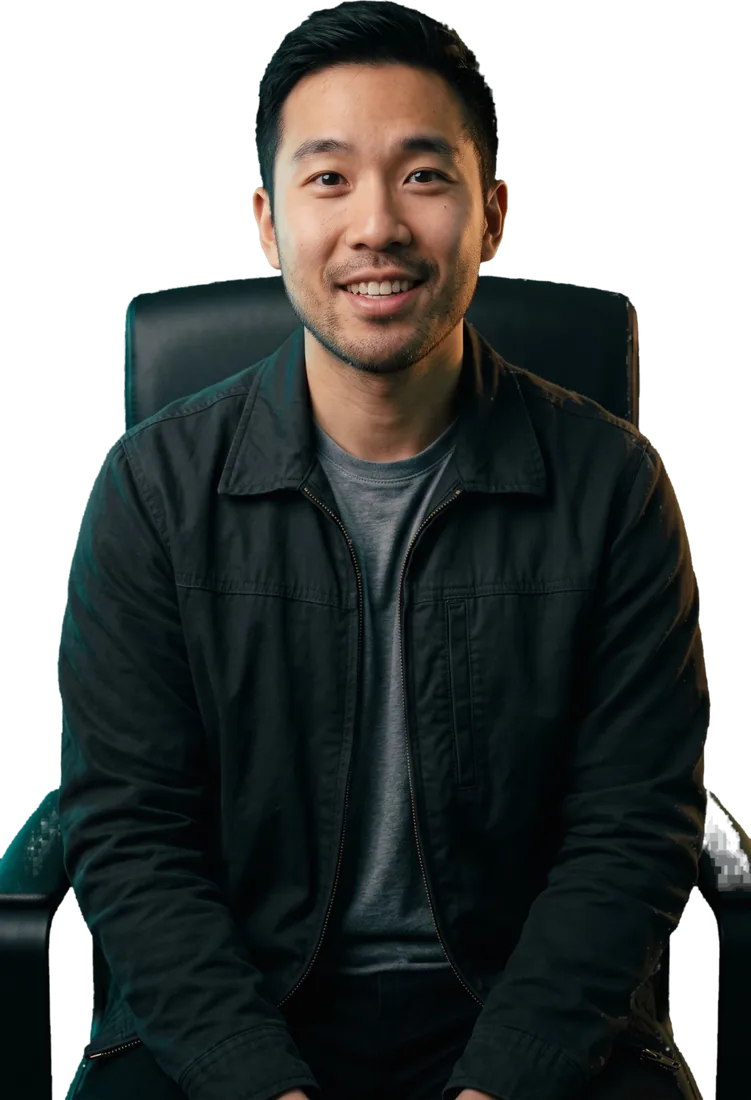
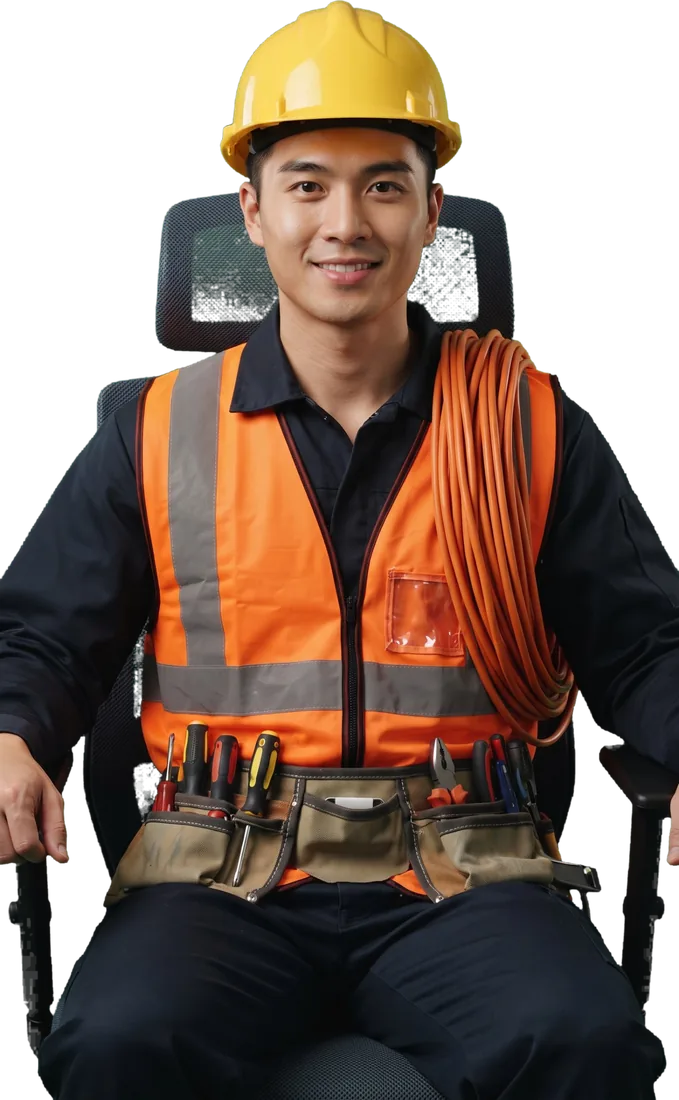
v4 : 5 clients métiers, chaise pivotante, humeur en bas

diff --git a/index.html b/index.html
@@ -300,8 +300,17 @@ body[data-view="game"]{overflow:hidden}
 .proj{position:absolute;z-index:6;left:50%;top:90.6%;width:30%;aspect-ratio:1;transform:translate(-50%,-50%);background:radial-gradient(circle,rgba(var(--acc-rgb),.55),rgba(var(--acc-rgb),0) 62%);mix-blend-mode:screen;animation:projp 3s ease-in-out infinite;pointer-events:none}
 @keyframes projp{50%{opacity:.55}}
 .cl{position:absolute;left:50%;transform:translateX(-50%)}
-.cl-in{position:relative;height:100%;transform-origin:50% 100%}
-.cl-in.breathe{animation:breathe 4.6s ease-in-out infinite}
+.cl-in{position:relative;height:100%;transform-origin:50% 60%}
+.cl-front{position:relative;height:100%;transform-origin:50% 100%}
+.cl-front.breathe{animation:breathe 4.6s ease-in-out infinite}
+.cl-back{position:absolute;left:50%;transform:translateX(-50%);aspect-ratio:300/600;display:none}
+.cl-back svg{display:block;width:100%;height:100%}
+.cl-in.back .cl-front{visibility:hidden}.cl-in.back .cl-back{display:block}
+.handzone{display:flex;justify-content:center;align-items:flex-start;padding-top:4px}
+.mood{display:inline-flex;align-items:center;gap:8px;padding:6px 13px 6px 8px;border-radius:999px;background:rgba(8,11,20,.78);border:1px solid var(--line2);font:500 12.5px var(--f-b);color:var(--soft);-webkit-backdrop-filter:blur(6px);backdrop-filter:blur(6px);white-space:nowrap}
+.mood b{color:var(--fg);font-weight:600}
+.face{width:22px;height:22px;flex:none}
+#fbt{display:inline-flex;align-items:center;gap:9px}#fbt small{font:500 11px var(--f-m);letter-spacing:.04em;text-transform:none;color:var(--muted)}
 @keyframes breathe{50%{transform:translateY(.35%) scaleY(1.006)}}
 .cl-img{display:block;height:100%;width:auto;-webkit-user-drag:none}
 .cl-cv{position:absolute;inset:0;width:100%;height:100%}
@@ -403,7 +412,6 @@ body[data-view="game"]{overflow:hidden}
         <div class="beam"></div>
         <img class="sl hands" id="hands" src="hands.webp" alt="">
         <div class="proj" id="proj"></div>
-        <div class="say" id="say"></div>
       </div>
       <div class="sfx" id="sfx" aria-hidden="true"></div>
       <div class="ui">
@@ -415,7 +423,7 @@ body[data-view="game"]{overflow:hidden}
         </div>
         <div class="grow"></div>
         <div id="qwrap"><ol class="opts" id="opts"></ol></div>
-        <div class="handzone" id="handzone"></div>
+        <div class="handzone" id="handzone"><div class="mood" id="mood"></div></div>
       </div>
       <div class="fb" id="fb" hidden>
         <div class="fbhead"><strong id="fbt"></strong><button class="pause press" id="pause" type="button" aria-label="Pause">❚❚</button></div>
@@ -1334,7 +1342,7 @@ const SUBJ = {
 ["c12","Cas · La SAS Tricots Normands veut faire entrer Projetbio au capital par l'émission d'actions de préférence, sans que les associés actuels perdent leur pouvoir de décision. Quel type d'actions émettre ?",["Des actions de préférence sans droit de vote","Des actions de préférence à droit de vote double","Des actions ordinaires à droit de vote plein","Des obligations convertibles en actions"],"ADP sans droit de vote : financement par un investisseur sans dilution du pouvoir de décision des associés en place.","Les actions de préférence peuvent être privées du droit de vote, temporairement ou définitivement, en contrepartie d'avantages financiers (dividende prioritaire ou majoré). Projetbio apporte des fonds sans peser sur les décisions collectives. Un vote double renforcerait au contraire son pouvoir ; des obligations convertibles ne sont pas des actions de préférence."],
 ["c12","Cas · La SAS Tricots Normands réserve à Projetbio une augmentation de capital en numéraire de 1 200 000 €. Que faut-il faire des droits préférentiels de souscription des associés ?",["Les supprimer par décision collective au profit de Projetbio","Les maintenir : ils ne peuvent jamais être écartés en SAS","Rien : le DPS n'existe pas dans une SAS","Les racheter aux associés au prix de la prime d'émission"],"Augmentation réservée : les associés suppriment le DPS par décision collective, au profit de l'investisseur désigné.","Le droit préférentiel de souscription protège les associés contre la dilution lors des augmentations en numéraire ; les règles de la SA s'appliquent à la SAS. Pour réserver l'émission à Projetbio, la collectivité des associés, compétente pour toute augmentation de capital, doit supprimer ce droit au profit de cette personne dénommée, au vu des rapports du président et du commissaire aux comptes."]] }
 };
-const VERSION = "v3 · 2026-10-15 · 416 + 454 questions";
+const VERSION = "v4 · 2026-10-15 · 416 + 454 questions";
 
 /* ======================= OUTILS ======================= */
 const $ = id => document.getElementById(id);
@@ -1436,15 +1444,16 @@ $("lens").onclick=e=>{const b=e.target.closest("[data-n]");if(!b)return;len=+b.d
 
 /* ======================= CLIENTS (scène POV) ======================= */
 const CLIENTS=[
-  {id:"kevin",name:"Kevin Tran",role:"Artisan électricien",img:"kevin.webp",ht:0,hc:.29},
-  {id:"lucas",name:"Lucas Martin",role:"Fondateur de start-up",img:"lucas.webp",ht:0,hc:.29},
-  {id:"sofia",name:"Sofia Lin",role:"Import-export",img:"sofia.webp",ht:0,hc:.33},
-  {id:"thomas",name:"Thomas Girard",role:"Dirigeant de SA",img:"thomas.webp",video:"thomas.mp4",ht:.165,hc:.405}
+  {id:"kevin",name:"Kevin Tran",role:"Artisan électricien",img:"kevin.webp",ht:.06,hc:.235,cx:.5},
+  {id:"lucas",name:"Lucas Martin",role:"Fondateur de start-up",img:"lucas.webp",ht:.02,hc:.24,cx:.52},
+  {id:"sofia",name:"Sofia Lin",role:"Import-export",img:"sofia.webp",ht:0,hc:.215,cx:.525},
+  {id:"henri",name:"Henri Delcourt",role:"PDG de SA",img:"henri.webp",ht:0,hc:.215,cx:.51},
+  {id:"thomas",name:"Thomas Girard",role:"Gérant de SARL",img:"thomas.webp",video:"thomas.mp4",ht:.165,hc:.405,cx:.5}
 ];
 const HEADTOP=27.5, HEAD=12, PER_CLIENT=3;
-const SAY_OK=["Parfait, merci !","Très clair.","Je savais que je pouvais compter sur vous.","Exactement ce qu'il me fallait.","Top, je note."];
-const SAY_KO=["Vous êtes sûr ?","On m'a dit autre chose…","Hum… ça m'inquiète.","Ce n'est pas ce que j'avais lu.","Je vais vérifier ailleurs."];
-const CEL={}; let corder=[], cidx=0, curEl=null;
+const MOODS={"2":["Ravi","#3DF2A0"],"1":["Satisfait","#8FE8B8"],"0":["Neutre","#B9C3DB"],"-1":["Mécontent","#FF9A6B"],"-2":["Furieux","#FF4D6D"]};
+const CHAIR=`<svg viewBox="0 0 300 600" preserveAspectRatio="xMidYMin meet"><defs><linearGradient id="cbk" x1="0" y1="0" x2="1" y2="0"><stop offset="0" stop-color="#202329"/><stop offset=".5" stop-color="#2E323A"/><stop offset="1" stop-color="#15171C"/></linearGradient><linearGradient id="cbv" x1="0" y1="0" x2="0" y2="1"><stop offset="0" stop-color="#000" stop-opacity="0"/><stop offset="1" stop-color="#000" stop-opacity=".55"/></linearGradient><pattern id="cmesh" width="6" height="6" patternUnits="userSpaceOnUse" patternTransform="rotate(45)"><rect width="6" height="6" fill="none"/><path d="M0 0H6M0 0V6" stroke="#4A4F5A" stroke-width=".7" opacity=".55"/></pattern></defs><rect x="40" y="345" width="16" height="70" rx="5" fill="#16181D"/><rect x="244" y="345" width="16" height="70" rx="5" fill="#16181D"/><rect x="14" y="330" width="62" height="20" rx="9" fill="#1B1D23"/><rect x="224" y="330" width="62" height="20" rx="9" fill="#1B1D23"/><rect x="138" y="70" width="24" height="60" rx="6" fill="#121418"/><rect x="92" y="4" width="116" height="76" rx="26" fill="url(#cbk)"/><rect x="92" y="4" width="116" height="76" rx="26" fill="url(#cmesh)"/><rect x="92" y="4" width="116" height="76" rx="26" fill="none" stroke="#0B0C0F" stroke-width="5"/><path d="M48 132 Q150 108 252 132 L262 330 Q262 372 222 386 L78 386 Q38 372 38 330 Z" fill="url(#cbk)"/><path d="M48 132 Q150 108 252 132 L262 330 Q262 372 222 386 L78 386 Q38 372 38 330 Z" fill="url(#cmesh)"/><path d="M48 132 Q150 108 252 132 L262 330 Q262 372 222 386 L78 386 Q38 372 38 330 Z" fill="url(#cbv)"/><path d="M48 132 Q150 108 252 132 L262 330 Q262 372 222 386 L78 386 Q38 372 38 330 Z" fill="none" stroke="#0A0B0E" stroke-width="9"/><path d="M252 136 L261 330" stroke="#3BE3FF" stroke-opacity=".35" stroke-width="2" fill="none"/><path d="M50 136 L40 330" stroke="#FFB547" stroke-opacity=".3" stroke-width="2" fill="none"/><rect x="134" y="300" width="32" height="140" rx="8" fill="#101216"/><ellipse cx="150" cy="452" rx="128" ry="26" fill="#121418"/><ellipse cx="150" cy="446" rx="122" ry="20" fill="#1C1F25"/><rect x="141" y="470" width="18" height="130" fill="#0E0F13"/></svg>`;
+const CEL={}; let curEl=null, mood=0, spinning=Promise.resolve(), idleT=0;
 function makeKeyer(cv){
   let gl=null;try{gl=cv.getContext("webgl",{premultipliedAlpha:true,alpha:true,antialias:false})}catch(e){}
   if(!gl)return null;
@@ -1463,17 +1472,20 @@ function makeKeyer(cv){
 function clientEl(c){
   if(CEL[c.id])return CEL[c.id];
   const w=document.createElement("div");w.className="cl";
-  const h=HEAD/(c.hc-c.ht);w.style.height=h+"%";w.style.top=(HEADTOP-c.ht*h)+"%";
-  const inn=document.createElement("div");inn.className="cl-in"+(c.video?"":" breathe");
-  const img=new Image();img.src=c.img;img.alt="";img.className="cl-img";img.draggable=false;inn.appendChild(img);
+  const h=HEAD/(c.hc-c.ht);w.style.height=h+"%";w.style.top=(HEADTOP-c.ht*h)+"%";w.style.transform=`translateX(${-c.cx*100}%)`;
+  const inn=document.createElement("div");inn.className="cl-in";
+  const fr=document.createElement("div");fr.className="cl-front"+(c.video?"":" breathe");
+  const img=new Image();img.src=c.img;img.alt="";img.className="cl-img";img.draggable=false;fr.appendChild(img);
   if(c.video){
     const cv=document.createElement("canvas");cv.width=540;cv.height=960;cv.className="cl-cv";
     const k=makeKeyer(cv);
-    if(k){inn.appendChild(cv);
+    if(k){fr.appendChild(cv);
       const v=document.createElement("video");v.muted=true;v.defaultMuted=true;v.playsInline=true;v.setAttribute("playsinline","");v.setAttribute("muted","");v.preload="auto";v.src=c.video;
       $("vids").appendChild(v);w._vid={v,k,img,mode:"speak",raf:0,lt:-1,shown:false};}
   }
-  w.appendChild(inn);w._c=c;CEL[c.id]=w;return w;
+  const bk=document.createElement("div");bk.className="cl-back";bk.innerHTML=CHAIR;
+  bk.style.top=((c.ht-.03)*100)+"%";bk.style.height=((1.03-c.ht)*100)+"%";
+  inn.append(fr,bk);w.appendChild(inn);w._c=c;CEL[c.id]=w;return w;
 }
 function vidSeek(o,t){const v=o.v;if(v.readyState>=1)v.currentTime=t;else v.addEventListener("loadedmetadata",()=>{v.currentTime=t},{once:true})}
 function vidStart(w){const o=w&&w._vid;if(!o)return;o.mode="speak";vidSeek(o,10);const p=o.v.play();if(p&&p.catch)p.catch(()=>{});
@@ -1484,56 +1496,51 @@ function vidStart(w){const o=w&&w._vid;if(!o)return;o.mode="speak";vidSeek(o,10)
   loop()}
 function vidSpeak(w){const o=w&&w._vid;if(!o)return;o.mode="speak";vidSeek(o,10);if(o.v.paused){const p=o.v.play();if(p&&p.catch)p.catch(()=>{})}}
 function vidStop(w){const o=w&&w._vid;if(!o)return;cancelAnimationFrame(o.raf);o.v.pause()}
-function showClient(c,first,wentWell){
-  const old=curEl,el=clientEl(c);curEl=el;stintOk=0;stintN=0;
-  if(old&&old!==el)dissolve(old,wentWell);
-  el.style.maskImage=el.style.webkitMaskImage="";
-  $("clients").appendChild(el);el.style.opacity="";
-  $("cname").innerHTML=`<b>${esc(c.name)}</b> · ${esc(c.role)}`;
-  $("say").style.top=(HEADTOP+HEAD+1.5)+"%";
-  vidStart(el);
-  anim(el,[{opacity:0,transform:"translateX(-50%) translateY(2.5%)"},{opacity:1,transform:"translateX(-50%)"}],{duration:560,delay:first?0:750,easing:OUT,fill:"backwards"});
+/* Chaise pivotante : un demi-tour = face → profil (on change de face) → l'autre face */
+const PV="perspective(900px) rotateY(";
+function rot(el,a,b,ms,ease){const x=anim(el,[{transform:PV+a+"deg)"},{transform:PV+b+"deg)"}],{duration:ms,easing:ease,fill:"forwards"});return x?x.finished.then(()=>x,()=>x):Promise.resolve(null)}
+function stopIdle(inn){inn.getAnimations().forEach(a=>a.cancel())}
+async function halfTurn(el,toBack){const inn=el.firstChild;stopIdle(inn);
+  const a=await rot(inn,0,90,230,"cubic-bezier(.55,0,1,.9)");inn.classList.toggle("back",toBack);
+  const b=await rot(inn,-90,0,330,"cubic-bezier(0,.1,.3,1.15)");if(a)a.cancel();if(b)b.cancel()}
+function nameplate(c){$("cname").innerHTML=`<b>${esc(c.name)}</b> · ${esc(c.role)}`}
+function changeClient(c){
+  const old=curEl,el=clientEl(c);curEl=el;mood=0;setMood(false);nameplate(c);
+  spinning=spinning.then(async()=>{
+    el.firstChild.classList.remove("back");stopIdle(el.firstChild);
+    if(old&&old!==el){const oi=old.firstChild;
+      if(!oi.classList.contains("back"))await halfTurn(old,true);
+      stopIdle(oi);const a=await rot(oi,0,90,230,"cubic-bezier(.55,0,1,.9)");
+      vidStop(old);old.remove();if(a)a.cancel();oi.classList.remove("back");
+      $("clients").appendChild(el);vidStart(el);
+      const b=await rot(el.firstChild,-90,0,360,"cubic-bezier(0,.1,.3,1.15)");if(b)b.cancel();
+    }else{$("clients").appendChild(el);vidStart(el);anim(el,[{opacity:0},{opacity:1}],{duration:550,easing:OUT})}
+    scheduleIdle();
+  }).catch(()=>{});
 }
-let stintOk=0,stintN=0;
-function nextClient(){const pool=CLIENTS.filter(c=>!curEl||c.id!==curEl._c.id);return pool[Math.floor(Math.random()*pool.length)]}
-/* Départ du client : il se désintègre de haut en bas, en billets verts si ça s'est bien passé, en poussière grise et rouge sinon */
-function dissolve(el,ok){
-  const finish=()=>{el.remove();el.style.maskImage=el.style.webkitMaskImage=""};
-  const sc=$("scene").getBoundingClientRect(),r=el.getBoundingClientRect(),sb=document.querySelector(".stagebox").getBoundingClientRect();
-  if(reduce||!r.width){vidStop(el);finish();return}
-  const SW=40,SH=Math.max(10,Math.round(SW*r.height/r.width));let A=null;
-  try{const c=document.createElement("canvas");c.width=SW;c.height=SH;const x=c.getContext("2d");x.drawImage(el.querySelector("img"),0,0,SW,SH);A=x.getImageData(0,0,SW,SH).data}catch(e){}
-  const deskY=sb.top+sb.height*.595,vis=Math.min(1,Math.max(.1,(deskY-r.top)/r.height));
-  const dur=1150,t0=performance.now();let last=-1;
-  const step=t=>{const p=Math.min(1,(t-t0)/dur),cut=p*(vis*100+14)-7;
-    const m=`linear-gradient(to bottom,transparent ${cut-5}%,#000 ${cut+5}%)`;el.style.webkitMaskImage=el.style.maskImage=m;
-    const row=Math.min(SH-1,Math.floor(Math.max(0,cut/100)*SH));
-    for(let rr=last+1;rr<=row;rr++)for(let k=0;k<(ok?3:2);k++){const cx=Math.floor(Math.random()*SW);if(A&&A[(rr*SW+cx)*4+3]<140)continue;
-      const y=r.top+(rr+.5)/SH*r.height;if(y>deskY)continue;spawnFx(r.left+(cx+.5)/SW*r.width-sc.left,y-sc.top,ok)}
-    last=Math.max(last,row);
-    if(p<1)requestAnimationFrame(step);else{vidStop(el);finish()}};
-  requestAnimationFrame(step);
-}
-function spawnFx(x,y,ok){const L=$("sfx"),d=document.createElement("span");d.className=ok?"bill":"ash";L.appendChild(d);
-  const R=(a,b)=>a+Math.random()*(b-a);let kf,du;
-  if(ok){const dx1=R(-60,60),dy1=R(-90,-30),dx2=dx1*1.8+R(-40,40),dy2=dy1+R(120,260),r0=R(-40,40);
-    kf=[{transform:`translate(${x}px,${y}px) rotate(${r0}deg) scale(.3)`,opacity:0},
-        {transform:`translate(${x+dx1}px,${y+dy1}px) rotate(${r0+R(-90,90)}deg) rotateX(180deg) scale(1)`,opacity:1,offset:.3},
-        {transform:`translate(${x+dx2}px,${y+dy2}px) rotate(${r0+R(-200,200)}deg) rotateX(540deg) scale(.9)`,opacity:0}];du=R(1300,2000);}
-  else{d.style.background=Math.random()<.35?"#FF4D6D":(Math.random()<.5?"#4A5266":"#8A92A6");const dx=R(-14,14);
-    kf=[{transform:`translate(${x}px,${y}px) scale(1)`,opacity:1},{transform:`translate(${x+dx*.4}px,${y+R(4,14)}px) scale(1)`,opacity:1,offset:.2},
-        {transform:`translate(${x+dx}px,${y+R(90,190)}px) scale(.4)`,opacity:0}];du=R(900,1500);}
-  const a=d.animate(kf,{duration:du,easing:ok?"cubic-bezier(.2,.7,.4,1)":"cubic-bezier(.5,0,.9,.6)"});a.onfinish=()=>d.remove()}
-function leaveGame(){Object.values(CEL).forEach(vidStop)}
+function faceFront(){const el=curEl;spinning=spinning.then(async()=>{if(el&&el===curEl&&el.firstChild.classList.contains("back"))await halfTurn(el,false)}).catch(()=>{})}
+function turnAway(){const el=curEl;spinning=spinning.then(async()=>{if(el&&el===curEl&&!el.firstChild.classList.contains("back"))await halfTurn(el,true)}).catch(()=>{})}
+function scheduleIdle(){clearTimeout(idleT);idleT=setTimeout(idleMove,3500+Math.random()*4000)}
+function idleMove(){const el=curEl;if(!el||reduce||$("game").hidden)return;const inn=el.firstChild;
+  if(!inn.classList.contains("back")&&!inn.getAnimations().length){const d=(Math.random()<.5?-1:1)*(6+Math.random()*7);
+    anim(inn,[{transform:PV+"0deg)"},{transform:PV+d+"deg)",offset:.4},{transform:PV+(d*.55)+"deg)",offset:.7},{transform:PV+"0deg)"}],{duration:2600,easing:"ease-in-out"})}
+  scheduleIdle()}
+function lean(){const f=curEl&&curEl.querySelector(".cl-front");anim(f,[{transform:"none"},{transform:"translateY(-.9%) scale(1.018)"},{transform:"none"}],{duration:1100,easing:"ease-in-out"})}
+function faceSvg(l,col){const m={"2":"M7 13.5 Q12 19 17 13.5","1":"M8 14.5 Q12 17 16 14.5","0":"M8 15.5 H16","-1":"M8 16.5 Q12 14 16 16.5","-2":"M7.5 17 Q12 12.5 16.5 17"}[l];
+  return `<svg class="face" viewBox="0 0 24 24" fill="none" stroke="${col}" stroke-width="1.8" stroke-linecap="round" aria-hidden="true"><circle cx="12" cy="12" r="10"/><circle cx="9" cy="10.3" r=".8" fill="${col}"/><circle cx="15" cy="10.3" r=".8" fill="${col}"/><path d="${m}"/>${l<=-1?'<path d="M7 8 L10.3 9.2 M17 8 L13.7 9.2"/>':""}</svg>`}
+function setMood(pop){const [lb,col]=MOODS[String(mood)],c=curEl&&curEl._c;
+  $("mood").innerHTML=faceSvg(mood,col)+`<span><b>${c?esc(c.name.split(" ")[0]):""}</b> · <span style="color:${col}">${lb}</span></span>`;
+  if(pop)anim($("mood"),[{transform:"scale(.8)"},{transform:"scale(1.08)"},{transform:"none"}],{duration:420,easing:SPRING})}
+function leaveGame(){clearTimeout(idleT);Object.values(CEL).forEach(vidStop)}
 function react(ok){
-  const inn=curEl&&curEl.firstChild;
-  if(ok)anim(inn,[{transform:"none"},{transform:"translateY(1.1%)"},{transform:"none"},{transform:"translateY(.7%)"},{transform:"none"}],{duration:820,easing:"ease-in-out"});
-  else anim(inn,[{transform:"none"},{transform:"translateX(-1.3%) rotate(-.7deg)"},{transform:"translateX(1.3%) rotate(.7deg)"},{transform:"translateX(-.8%)"},{transform:"none"}],{duration:680,easing:"ease-in-out"});
-  const L=ok?SAY_OK:SAY_KO,sy=$("say");sy.textContent=L[Math.floor(Math.random()*L.length)];sy.className="say "+(ok?"ok":"ko");
-  sy.style.opacity=1;anim(sy,[{opacity:0,transform:"translateX(-50%) translateY(10px) scale(.85)"},{opacity:1,transform:"translateX(-50%)"}],{duration:420,easing:SPRING});
+  mood=Math.max(-2,Math.min(2,mood+(ok?1:-1)));setMood(true);
+  if(ok){const f=curEl&&curEl.querySelector(".cl-front");anim(f,[{transform:"none"},{transform:"translateY(1.2%)"},{transform:"translateY(-.4%) scale(1.012)"},{transform:"translateY(.8%)"},{transform:"none"}],{duration:900,easing:"ease-in-out"})}
+  else turnAway();
   anim($("hands"),[{transform:"none"},{transform:"translateY(-1.1%) scale(1.012)"},{transform:"none"}],{duration:520,easing:SPRING});
   anim($("proj"),[{opacity:.6,transform:"translate(-50%,-50%) scale(1)"},{opacity:1,transform:"translate(-50%,-50%) scale(1.6)"},{opacity:.6,transform:"translate(-50%,-50%) scale(1)"}],{duration:600,easing:"ease-out"});
 }
+function nextClient(){const pool=CLIENTS.filter(c=>!curEl||c.id!==curEl._c.id);return pool[Math.floor(Math.random()*pool.length)]}
+let stintOk=0,stintN=0;
 function preloadScene(){["decor.webp","desk.webp","hands.webp",...CLIENTS.map(c=>c.img)].forEach(u=>{const i=new Image();i.src=u})}
 
 /* ======================= PARTIE ======================= */
@@ -1545,8 +1552,8 @@ function start(list,m){
   $("prog").className="prog "+(segs?"segs":"bar");
   $("prog").innerHTML=segs?deck.map(()=>"<i></i>").join(""):"<i></i>";
   $("lives").hidden=gmode!=="survie";drawLives(-1);setCombo();
-  $("clients").innerHTML="";Object.values(CEL).forEach(vidStop);curEl=null;$("sfx").innerHTML="";
-  show("game");showClient(CLIENTS[Math.floor(Math.random()*CLIENTS.length)],true);render();
+  $("clients").innerHTML="";leaveGame();curEl=null;spinning=Promise.resolve();
+  show("game");changeClient(CLIENTS[Math.floor(Math.random()*CLIENTS.length)]);render();
 }
 $("go").onclick=()=>{if(!sel.size)return;const pool=shuffle(S.Q.filter(q=>sel.has(q[0])));
   const r=$("go").getBoundingClientRect();burst(r.left+r.width/2,r.top+r.height/2,S.color,24,140);
@@ -1558,8 +1565,8 @@ function render(){
   $("ctag").textContent=`Ch. ${S.ICO[d.q[0]]} · ${S.CH[d.q[0]]}`;
   $("qtext").textContent=d.q[1];
   $("opts").innerHTML=d.opts.map((o,j)=>`<li><button class="opt" type="button" data-j="${j}"><span class="k">${"ABCD"[j]}</span><span class="t">${esc(o.t)}</span><span class="ic" aria-hidden="true"></span></button></li>`).join("");
-  $("fb").hidden=true;$("handzone").style.height="";$("say").style.opacity=0;
-  if(i>0&&i%PER_CLIENT===0){showClient(nextClient(),false,stintN>0&&stintOk/stintN>=.6)}else if(i>0)vidSpeak(curEl);
+  $("fb").hidden=true;$("handzone").style.height="";$("mood").style.visibility="";
+  if(i>0&&i%PER_CLIENT===0)changeClient(nextClient());else if(i>0){faceFront();vidSpeak(curEl);setTimeout(lean,450)}
   const O=$("opts");O.classList.add("calm");if(document.activeElement)document.activeElement.blur();
   let mx=null,my=null;O.onpointermove=e=>{if(mx===null){mx=e.clientX;my=e.clientY;return}if(Math.abs(e.clientX-mx)+Math.abs(e.clientY-my)>6){O.classList.remove("calm");O.onpointermove=null}};
   const p=$("prog");
@@ -1582,18 +1589,15 @@ function answer(j){
     streak++;best=Math.max(best,streak);const m=mult(streak),gain=10*m,from=pts;pts+=gain;
     countUp($("score"),from,pts,500,fmt);
     anim($("score").parentNode,[{transform:"scale(1)"},{transform:"scale(1.16)"},{transform:"scale(1)"}],{duration:420,easing:SPRING});
-    burst(cx,cy,"#3DF2A0",streak>=6?30:20,streak>=6?180:130);
-    floatTxt(m>1?`+${gain} ×${m}`:`+${gain}`,cx,r.top,"#3DF2A0");
+    burst(cx,cy,"#3DF2A0",12,90);
     anim(btns[j],[{transform:"scale(1)"},{transform:"scale(1.035)"},{transform:"scale(1)"}],{duration:460,easing:SPRING});
-    if([5,10,15,20,30,40].includes(streak))toast(`Série ×${streak}`);else if(streak===3)toast("Combo ×2");else if(streak===6)toast("Combo ×3");
     if(segs&&segs[i])segs[i].className="ok";
   }else{
     const lost=streak>=3;streak=0;
     anim($("stage"),[{transform:"translateX(0)"},{transform:"translateX(-11px)"},{transform:"translateX(9px)"},{transform:"translateX(-6px)"},{transform:"translateX(3px)"},{transform:"translateX(0)"}],{duration:460,easing:"ease-out"});
     anim($("vig"),[{opacity:0},{opacity:1,offset:.2},{opacity:0}],{duration:700,easing:"ease-out"});
     anim(btns[gi],[{transform:"scale(1)"},{transform:"scale(1.03)"},{transform:"scale(1)"}],{duration:520,delay:250,iterations:2,easing:"ease-in-out"});
-    if(lost)floatTxt("Combo perdu",cx,r.top,"#FF4D6D");
-    if(gmode==="survie"){lives--;drawLives(lives);if(lives<=0)setTimeout(()=>toast("Plus de vies"),250)}
+    if(gmode==="survie"){lives--;drawLives(lives);}
     if(segs&&segs[i])segs[i].className="ko";
   }
   setCombo();react(pick.ok);stintN++;if(pick.ok)stintOk++;
@@ -1601,7 +1605,7 @@ function answer(j){
   const last=i+1>=deck.length||(gmode==="survie"&&lives<=0);
   const okW=["Validé","Exact","Imparable","Propre","Bien joué"];
   $("fb").className="fb "+(pick.ok?"ok":"ko");
-  $("fbt").textContent=pick.ok?okW[Math.floor(Math.random()*okW.length)]:"Raté · la bonne est en vert";
+  $("mood").style.visibility="hidden";{const [lb,col]=MOODS[String(mood)];$("fbt").innerHTML=faceSvg(mood,col)+`<span style="color:${col};white-space:nowrap">${esc(curEl?curEl._c.name.split(" ")[0]:"")} · ${lb}</span>`}
   $("fbe").textContent=d.q[3];
   $("next").textContent=last?"Résultat":"Suivant";
   $("fb").hidden=false;

diff --git a/sw.js b/sw.js
@@ -1,6 +1,6 @@
-// Quiz DCG v3 — réseau d'abord : toute mise à jour en ligne est prise immédiatement ; cache = secours hors connexion.
-const C="quiz-dcg-v3";
-const SHELL=["./","index.html","fiscal.html","societes.html","app.webmanifest","app-180.png","app-192.png","app-512.png","decor.webp","desk.webp","hands.webp","kevin.webp","lucas.webp","sofia.webp","thomas.webp"];
+// Quiz DCG v4 — réseau d'abord : toute mise à jour en ligne est prise immédiatement ; cache = secours hors connexion.
+const C="quiz-dcg-v4";
+const SHELL=["./","index.html","fiscal.html","societes.html","app.webmanifest","app-180.png","app-192.png","app-512.png","decor.webp","desk.webp","hands.webp","kevin.webp","lucas.webp","sofia.webp","henri.webp","thomas.webp"];
 self.addEventListener("install",e=>{e.waitUntil(caches.open(C).then(c=>c.addAll(SHELL.map(u=>new Request(u,{cache:"reload"})))));self.skipWaiting()});
 self.addEventListener("activate",e=>{e.waitUntil(caches.keys().then(ks=>Promise.all(ks.filter(k=>k!==C).map(k=>caches.delete(k)))).then(()=>self.clients.claim()))});
 self.addEventListener("fetch",e=>{
